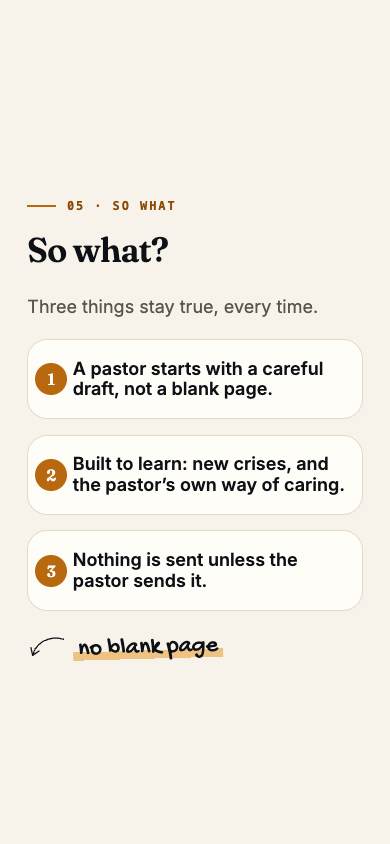
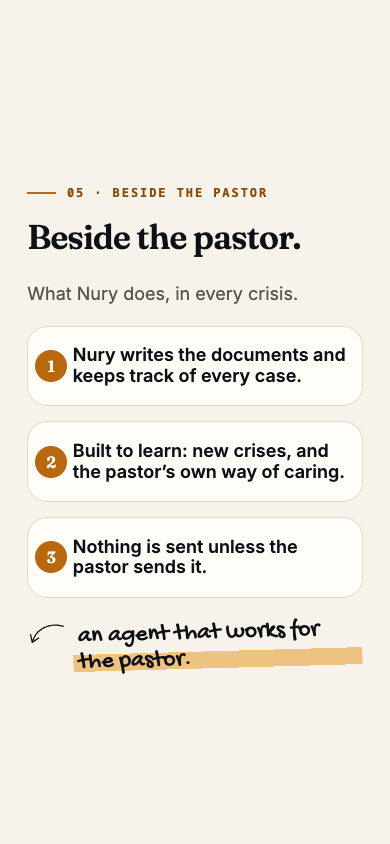
Short deck slide 5: Beside the pastor (kicker, headline, sub-line, line 1, hand note, footer label)

diff --git a/presentation/short/deck.html b/presentation/short/deck.html
@@ -359,11 +359,11 @@ body.short .v2 .film svg{width:clamp(36px,4vw,72px);fill:var(--amber)}
 <aside class="notes">LIGHT. 0:29 to 1:13. Criterion: Impact and Execution (a working product). DECIDED (hack-sensei): Eric's film plays and Juan stays silent while it plays (rows 5 to 7 of the film, about 27 s). Juan BEFORE, about 3 s: "Here is one call, start to finish." Film plays. Juan AFTER, about 4 s: "A draft that failed was held back. Nury never sends. The pastor does." (softened from "never saw the unsafe draft" to match limit L1) No live app on stage. The slide shows "How this case went": five stages, each Approved. If the film fails, leave it up and say the same three lines. Cut in the taste pass: the line about Approve, Edit or Stop (Eric says it) and "Nothing is sent" (Juan says it after).</aside>
 </section>
 
-<section class="slide v2 shortslide" data-part="talk" data-name="so-what" data-title="So what">
-<p class="lbl">05 · So what</p>
-<div class="stack"><h2 class="h">So what?</h2><p class="sub">Three things stay true, every time.</p></div>
-<ol class="cl3"><li><span class="cn">1</span>A pastor starts with a careful draft, not a blank page.</li><li><span class="cn">2</span>Built to learn: new crises, and the pastor&rsquo;s own way of caring.</li><li><span class="cn">3</span>Nothing is sent unless the pastor sends it.</li></ol>
-<p class="hand"><svg class="arrow flip" viewBox="0 0 90 64" aria-hidden="true"><path d="M5 10 C 34 4, 68 20, 74 54"/><path d="M60 44 L74 56 L80 38"/></svg><span class="hl">no blank page</span></p>
+<section class="slide v2 shortslide" data-part="talk" data-name="so-what" data-title="Beside the pastor">
+<p class="lbl">05 · Beside the pastor</p>
+<div class="stack"><h2 class="h">Beside the pastor.</h2><p class="sub">What Nury does, in every crisis.</p></div>
+<ol class="cl3"><li><span class="cn">1</span>Nury writes the documents and keeps track of every case.</li><li><span class="cn">2</span>Built to learn: new crises, and the pastor&rsquo;s own way of caring.</li><li><span class="cn">3</span>Nothing is sent unless the pastor sends it.</li></ol>
+<p class="hand"><svg class="arrow flip" viewBox="0 0 90 64" aria-hidden="true"><path d="M5 10 C 34 4, 68 20, 74 54"/><path d="M60 44 L74 56 L80 38"/></svg><span class="hl">an agent that works for the pastor.</span></p>
 <aside class="notes">SHORT TRACK. 1:08 to 1:20 (12 s). Criterion: Concept and Innovation. Say: "A pastor starts with a careful draft, not a blank page. Every crisis can become a folder. Nothing is sent unless the pastor sends it." Three presses: line 1 at "A pastor starts with", line 2 at "Every crisis", line 3 at "Nothing is sent". Line 1 is the product's purpose: the pastor gets a structured case, a sourced brief and a draft message to read, edit or reject. Line 2 is "built to grow": a crisis is a folder of plain files, two run today. Line 3 is the rule: Nury has no send path. Nothing here claims a pastor has used it; do not say so. Do not add numbers. Cuts if it runs long: line 2.</aside></section>
 
 <section class="slide v2 close" data-part="talk" data-name="close" data-title="Close">
